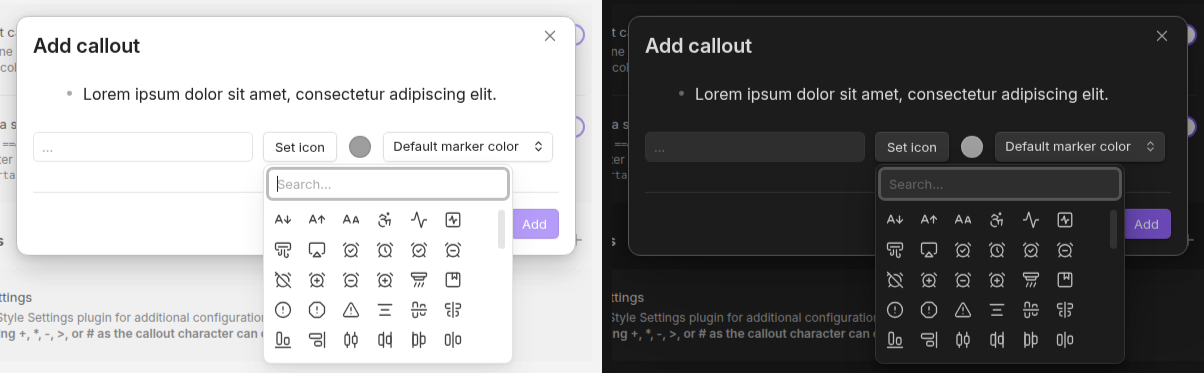
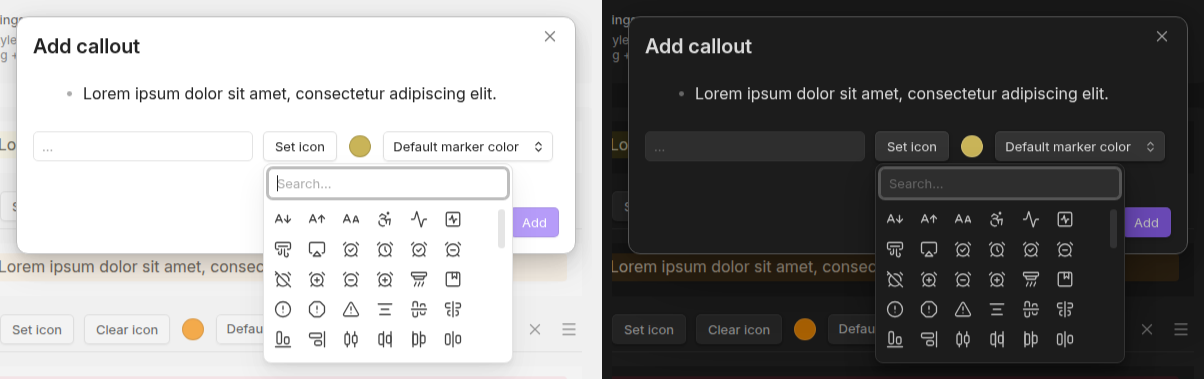
Start a new callout on a muted yellow, with no line above the dialog's buttons (#35)
* Start a new callout on a muted yellow

The Add callout dialog opened on 158, 158, 158, the same gray as the
built-in % callout, so a callout added without touching the color picker
was indistinguishable from it. Start on a muted yellow (201, 180, 88)
instead, so the new callout reads as its own from the first preview.

* Drop the separator above the Add callout dialog's buttons

The dialog's Cancel/Add row is a Setting, and Obsidian rules a line above
every setting row in a dialog but the first. In a dialog this short the
line only cut the form off from its own buttons. The row now carries a
class that removes the border; the selector is four classes deep to match
Obsidian's own rule, whose two :not() pseudo-classes each count as the
class inside them.

* Regenerate the Add callout dialog screenshots

The dialog now opens on a yellow swatch with no line above its buttons,
so the three README captures of it are updated to match.

diff --git a/test/specs/settings.e2e.ts b/test/specs/settings.e2e.ts
@@ -28,6 +28,7 @@ import {
   iconTooltip,
   iconTooltipDelay,
   isMobile,
+  modalButtonRowBorder,
   modalSubmitDisabled,
   modalText,
   openIconMenuInModal,
@@ -87,6 +88,27 @@ describe('Adding a callout', function () {
   it('accepts an unused character', async function () {
     await typeInModal('(');
     expect(await modalSubmitDisabled('Add')).toBe(false);
+  });
+
+  // The form starts on a muted yellow rather than the gray the built-in `%`
+  // callout already uses, so a callout added without touching the picker
+  // still reads as its own.
+  it('starts on a muted yellow', async function () {
+    await typeInModal('(');
+    await clickModalButton('Add');
+
+    const added = (await getSettings())[BUILT_IN_COUNT];
+    // Put the built-ins back: the icon picker tests below add "(" too.
+    await setSettings(DEFAULT_SETTINGS.map((c) => ({ ...c })));
+
+    expect(added).toMatchObject({ char: '(', color: '201, 180, 88' });
+  });
+
+  // The Cancel/Add row is a Setting, and Obsidian rules a line above every
+  // setting row but the first. In a dialog this short it only cuts the form
+  // off from its buttons.
+  it('draws no separator above its buttons', async function () {
+    expect(await modalButtonRowBorder('Add')).toBe('none');
   });
 
   describe('the icon picker inside the modal', function () {

diff --git a/test/helpers.ts b/test/helpers.ts
@@ -288,7 +288,14 @@ export async function legacyDataFileExists(): Promise<boolean> {
  * like "Add callout".
  */
 function inTopmostModal<T>(
-  op: 'text' | 'settled' | 'type' | 'click' | 'cancel' | 'disabled',
+  op:
+    | 'text'
+    | 'settled'
+    | 'type'
+    | 'click'
+    | 'cancel'
+    | 'disabled'
+    | 'buttonRowBorder',
   arg = ''
 ): Promise<T> {
   return browser.executeObsidian(
@@ -345,11 +352,24 @@ function inTopmostModal<T>(
         }
         case 'disabled':
           return !!button()?.disabled;
+        case 'buttonRowBorder': {
+          const row = button()?.closest('.setting-item');
+          if (!row) throw new Error(`No button row holding "${value}"`);
+          return getComputedStyle(row).borderTopStyle;
+        }
       }
     },
     op,
     arg
   ) as Promise<T>;
+}
+
+/**
+ * The computed border-top style of the dialog row holding the button with
+ * this label: 'none' when nothing separates it from the form above.
+ */
+export function modalButtonRowBorder(label: string): Promise<string> {
+  return inTopmostModal<string>('buttonRowBorder', label);
 }
 
 /** Text of the topmost dialog, or '' when none is open. */

diff --git a/src/settingsTab.ts b/src/settingsTab.ts
@@ -433,9 +433,11 @@ export function buildCalloutRow(
  * Collects the character, icon and color for a new custom callout.
  */
 export class NewCalloutModal extends Modal {
+  // A muted yellow rather than the gray of the built-in `%` callout, so a
+  // callout added without touching the picker still stands apart from it.
   private callout: Callout = {
     char: '',
-    color: '158, 158, 158',
+    color: '201, 180, 88',
     custom: true,
   };
 
@@ -485,6 +487,7 @@ export class NewCalloutModal extends Modal {
     let submit: ButtonComponent;
 
     new Setting(this.contentEl)
+      .setClass('lc-modal-buttons')
       .addButton((btn) =>
         btn.setButtonText('Cancel').onClick(() => this.close())
       )

diff --git a/styles.css b/styles.css
@@ -429,3 +429,13 @@ settings:
   min-height: 1.5em;
   margin: 6px 0;
 }
+
+/* The Add callout dialog's Cancel/Add row is a Setting, and Obsidian rules
+   a line above every setting row in a dialog but the first. In a dialog
+   this short it only cuts the form off from its own buttons. Four classes
+   deep to match the specificity of Obsidian's own
+   `.modal:not(.mod-settings) .setting-item:not(.setting-item-heading)`,
+   where each :not() counts as the class inside it. */
+.modal .modal-content .setting-item.lc-modal-buttons {
+  border-top: none;
+}
